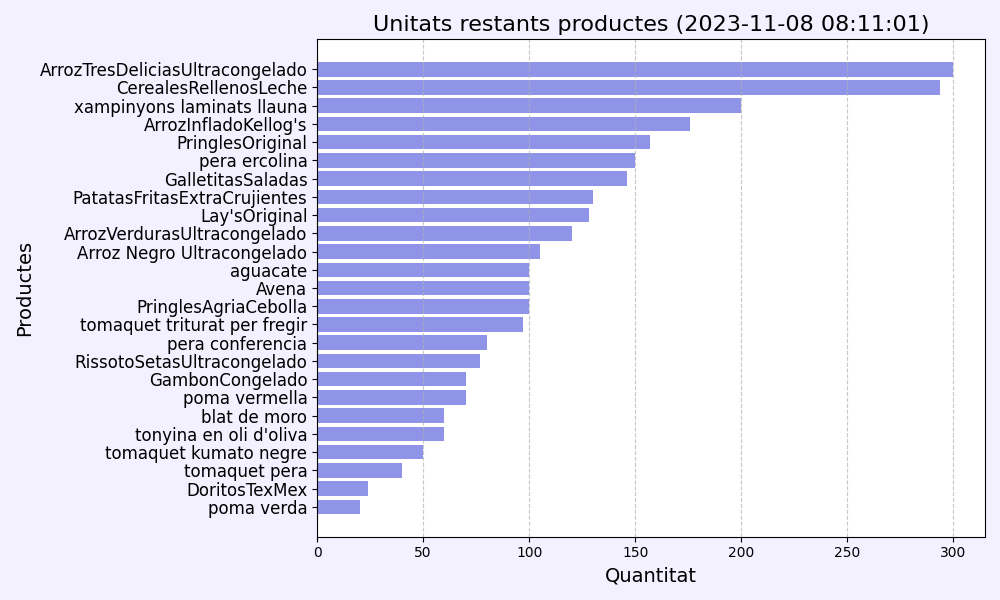
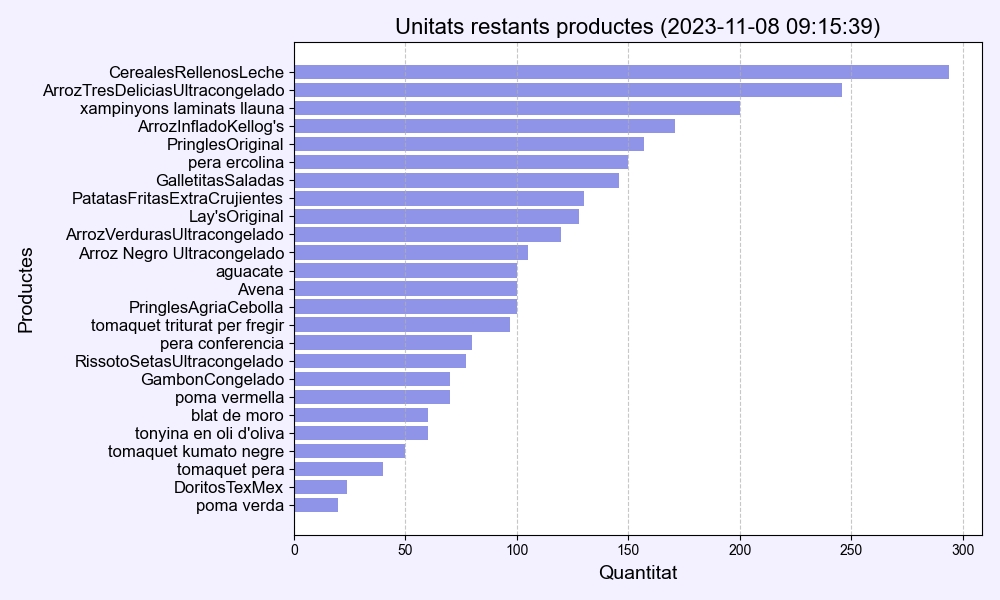
HoraDiners
Imatge a estadistiques amb l'hora on es fan mes diners

Changed region(s): [[0.031, 0.03, 0.992, 0.99], [0.0, 0.39, 0.031, 0.57]]

diff --git a/frontend/vuetify/src/components/Statistics.vue b/frontend/vuetify/src/components/Statistics.vue
@@ -1,5 +1,4 @@
-<script setup>
-</script>
+<script setup></script>
 
 <script>
 export default {
@@ -12,14 +11,19 @@ export default {
         import.meta.env.VITE_NODE_ROUTE +
         "getImatgeEstadistiques/producteMesVenut",
       fotoHoraComu:
-        import.meta.env.VITE_NODE_ROUTE + "getImatgeEstadistiques/HoraMesComu?",
+        import.meta.env.VITE_NODE_ROUTE + "getImatgeEstadistiques/HoraMesComu",
+      fotoHoraDiners:
+        import.meta.env.VITE_NODE_ROUTE +
+        "getImatgeEstadistiques/HoraMesDiners",
       dialog1: false,
       dialog2: false,
       dialog3: false,
+      dialog4: false,
     };
   },
   methods: {
     executeStatistics() {
+      //si peta es per que al server a la funcio callPython() hem de canviar la versio de python (a produccio es python3 i a localhost es python)
       fetch(import.meta.env.VITE_NODE_ROUTE + "executeStatistics")
         .then((response) => {
           if (!response.ok) {
@@ -42,6 +46,10 @@ export default {
           this.fotoHoraComu =
             import.meta.env.VITE_NODE_ROUTE +
             "getImatgeEstadistiques/HoraMesComu?" +
+            rand;
+          this.fotoHoraDiners =
+            import.meta.env.VITE_NODE_ROUTE +
+            "getImatgeEstadistiques/HoraMesDiners?" +
             rand;
         })
         .catch((error) => {
@@ -178,6 +186,40 @@ export default {
                   </template>
                   <v-card rounded="xl">
                     <v-img height="auto" :src="this.fotoHoraComu"></v-img>
+                  </v-card>
+                </v-dialog>
+              </v-col>
+              <v-col cols="12" sm="4">
+                <div
+                  class="font-weight-bold text-center text-h4 py-4 text-truncate"
+                  style="color: #3d3976"
+                >
+                  Hora Mes Diners
+                </div>
+                <v-dialog v-model="dialog4" width="1200">
+                  <template v-slot:activator>
+                    <v-card
+                      class="image-card"
+                      style="
+                        background: linear-gradient(#b0b8f1, #ced4f7);
+                        padding: 0;
+                        width: auto;
+                      "
+                      elevation="10"
+                      rounded="xl"
+                      @click="dialog4 = true"
+                    >
+                      <v-img
+                        height="238"
+                        cover
+                        :src="this.fotoHoraDiners"
+                      ></v-img>
+                      <!-- Puedes agregar un texto o contenido adicional aquí si lo deseas -->
+                    </v-card>
+                  </template>
+                  <v-card rounded="xl">
+                    <!-- Agregamos border-radius para hacer las esquinas redondas -->
+                    <v-img height="auto" :src="this.fotoHoraDiners"></v-img>
                   </v-card>
                 </v-dialog>
               </v-col>

diff --git a/backend/node/server.js b/backend/node/server.js
@@ -717,11 +717,17 @@ app.get("/api/getImatgeEstadistiques/HoraMesComu", (req, res) => {
   res.sendFile(path.resolve("img_estadistiques/HoraMesComu.png"));
 });
 
+app.get("/api/getImatgeEstadistiques/HoraMesDiners", (req, res) => {
+  res.header("Access-Control-Allow-Origin", "*");
+  res.sendFile(path.resolve("img_estadistiques/HoraMesDiners.png"));
+});
+
+
 //Ejecutar archivo python
 app.get("/api/executeStatistics", callPython);
 
 function callPython(req, res) {
-  const pythonProcess = spawn("python3", ["./estadistiques.py"]);
+  const pythonProcess = spawn("python", ["./estadistiques.py"]);
 
   pythonProcess.stdout.on("data", (data) => {
     // Manejar la salida del proceso Python

diff --git a/backend/node/estadistiques.py b/backend/node/estadistiques.py
@@ -44,6 +44,28 @@ def obtener_productos_vendidos(cursor):
     cursor.execute(consulta)
     return cursor.fetchall()
 
+def obtenir_HoresComanda(cursor):
+    # Consulta SQL para obtener los datos de las comandas
+    consulta = """
+    SELECT id, usuari, id_carret, data_comanda
+    FROM Comanda
+    """
+    cursor.execute(consulta)
+    return cursor.fetchall()
+
+def obtener_hora_mas_dinero(cursor):
+    """Obtiene la hora en la que se hace mas dinero"""
+    consulta="""SELECT HOUR(data_comanda) AS hora, 
+    SUM(P.preu * CP.quantitat) AS total_dinero
+    FROM Comanda AS C
+    INNER JOIN Carret AS CR ON C.id_carret = CR.id
+    INNER JOIN Carret_Productes AS CP ON CR.id = CP.id_carret
+    INNER JOIN Producte AS P ON CP.id_producte = P.id
+    GROUP BY HOUR(data_comanda)
+    ORDER BY total_dinero DESC"""
+    
+    cursor.execute(consulta)
+    return cursor.fetchall()
 
 def graficoCantidadVendida(df, filename):
     """Crea un gráfico de barras horizontales a partir de un DataFrame."""
@@ -54,7 +76,9 @@ def graficoCantidadVendida(df, filename):
     
     # Obtener la fecha actual
     fecha_actual = datetime.now().strftime('%Y-%m-%d %H:%M:%S')
-   
+    
+    sns.set(style="whitegrid", rc={'axes.facecolor': '#f3f1ff'})
+    
     # Utilizar la fecha actual en el título del gráfico
     plt.title(f'Unitats venudes per producte. ({fecha_actual})', fontsize=16)
    
@@ -80,6 +104,8 @@ def graficoCantidad(df, filename):
     # Obtener la fecha actual
     fecha_actual = datetime.now().strftime('%Y-%m-%d %H:%M:%S')
    
+    sns.set(style="whitegrid", rc={'axes.facecolor': '#f3f1ff'})
+   
     # Utilizar la fecha actual en el título del gráfico
     plt.title(f'Unitats restants productes ({fecha_actual})', fontsize=16)
    
@@ -94,15 +120,6 @@ def graficoCantidad(df, filename):
     plt.tight_layout()
     plt.savefig(filename)
     plt.close()
-
-def obtenir_HoresComanda(cursor):
-    # Consulta SQL para obtener los datos de las comandas
-    consulta = """
-    SELECT id, usuari, id_carret, data_comanda
-    FROM Comanda
-    """
-    cursor.execute(consulta)
-    return cursor.fetchall()
 
 def graficHoresComanda(df, filename, hora_mas_comun):
     fecha_actual = datetime.now().strftime('%Y-%m-%d %H:%M:%S')
@@ -129,6 +146,28 @@ def graficHoresComanda(df, filename, hora_mas_comun):
     plt.savefig(filename)
     plt.close()
     
+def graficHoresDiners(df,filename):
+    """Crea un gráfico de barras horizontales a partir de un DataFrame."""
+    plt.figure(figsize=(10, 6), facecolor='#f3f1ff')
+    plt.barh(df['hora'], df['total_dinero'], color='#9094e9', capstyle='round')
+
+    # Obtener la fecha actual
+    fecha_actual = datetime.now().strftime('%Y-%m-%d %H:%M:%S')
+
+    # Utilizar la fecha actual en el título del gráfico
+    plt.title(f'Total de diners per hora ({fecha_actual})', fontsize=16)
+
+    plt.yticks(df['hora'], fontsize=12)  # Utiliza las horas como etiquetas en el eje y
+    plt.xlabel('Total de diners', fontsize=14)
+    plt.ylabel('Hora', fontsize=14)
+
+    # Eliminar la cuadrícula horizontal
+    plt.grid(axis='x', linestyle='--', alpha=0.7)
+
+    # Guardar la figura en un archivo (reemplaza 'nombre_del_archivo' con el nombre que desees)
+    plt.tight_layout()
+    plt.savefig(filename)
+    plt.close()
 
 def CantidaRestante():
     conexion, cursor = establecer_conexion()
@@ -168,10 +207,21 @@ def HoraComun():
     filename = './img_estadistiques/HoraMesComu.png'
     graficHoresComanda(df,filename,hora_mas_comun)
     
+def HoraDiners():
+    conexion,cursor = establecer_conexion()
+    resultados = obtener_hora_mas_dinero(cursor)
+    print(resultados)
+    conexion.close()
+    
+    df = pd.DataFrame(resultados, columns=['hora','total_dinero'])
+    filename = './img_estadistiques/HoraMesDiners.png'
+    graficHoresDiners(df,filename)
+    
 def main():
     CantidaRestante()
     CantidadVendida()
     HoraComun()
+    HoraDiners()
    
 main()
 
